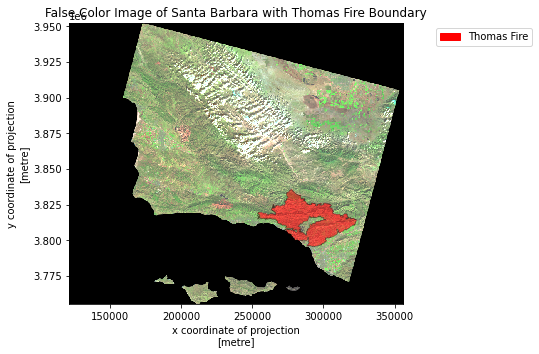
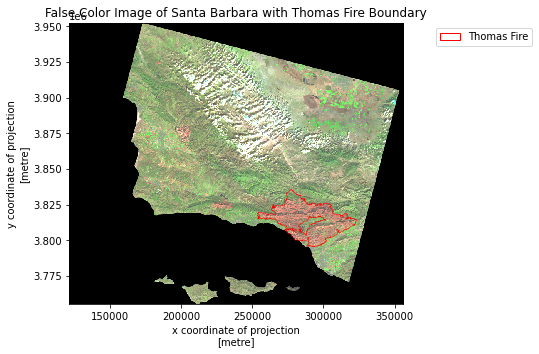
Built site for gh-pages

Changed region(s): [[0.475, 0.5282, 0.6827, 0.7147], [0.8015, 0.0932, 0.8609, 0.1243]]

diff --git a/blog/2023-12-5-envdata-proj/analysis.html b/blog/2023-12-5-envdata-proj/analysis.html
@@ -275,7 +275,7 @@ div.csl-indent {
 <section id="importing-data" class="level3">
 <h3 class="anchored" data-anchor-id="importing-data">Importing Data</h3>
 <p>This section involves importing necessary libraries like pandas and matplotlib for data manipulation and visualization. The AQI data for 2017 and 2018 is fetched from online sources, ensuring access to the most relevant and up-to-date air quality information.</p>
-<div class="cell" data-execution_count="2">
+<div class="cell" data-execution_count="19">
 <div class="sourceCode cell-code" id="cb1"><pre class="sourceCode python code-with-copy"><code class="sourceCode python"><span id="cb1-1"><a href="#cb1-1" aria-hidden="true" tabindex="-1"></a><span class="co"># Import necessary libraries for data manipulation and visualization</span></span>
 <span id="cb1-2"><a href="#cb1-2" aria-hidden="true" tabindex="-1"></a><span class="im">import</span> pandas <span class="im">as</span> pd</span>
 <span id="cb1-3"><a href="#cb1-3" aria-hidden="true" tabindex="-1"></a><span class="im">import</span> matplotlib.pyplot <span class="im">as</span> plt</span>
@@ -289,7 +289,7 @@ div.csl-indent {
 <h3 class="anchored" data-anchor-id="analysis">Analysis</h3>
 <p><strong>Data Cleaning and Preparation</strong></p>
 <p>The datasets from different years are concatenated for a comprehensive analysis. Column names are cleaned for consistency, and irrelevant columns are removed, streamlining the data for effective analysis. The conversion of the ‘date’ column to a datetime object and setting it as an index is verified to ensure proper time-series analysis.</p>
-<div class="cell" data-execution_count="3">
+<div class="cell" data-execution_count="20">
 <div class="sourceCode cell-code" id="cb2"><pre class="sourceCode python code-with-copy"><code class="sourceCode python"><span id="cb2-1"><a href="#cb2-1" aria-hidden="true" tabindex="-1"></a><span class="co"># Concatenate the two data frames for combined analysis</span></span>
 <span id="cb2-2"><a href="#cb2-2" aria-hidden="true" tabindex="-1"></a>aqi <span class="op">=</span> pd.concat([aqi_17, aqi_18])</span>
 <span id="cb2-3"><a href="#cb2-3" aria-hidden="true" tabindex="-1"></a></span>
@@ -309,7 +309,7 @@ div.csl-indent {
 </div>
 <p><strong>Time-Series Analysis</strong></p>
 <p>A 5-day rolling average for AQI is calculated and checked by displaying the first few entries. This step is critical for smoothing out daily fluctuations and observing longer-term trends in air quality.</p>
-<div class="cell" data-execution_count="4">
+<div class="cell" data-execution_count="21">
 <div class="sourceCode cell-code" id="cb3"><pre class="sourceCode python code-with-copy"><code class="sourceCode python"><span id="cb3-1"><a href="#cb3-1" aria-hidden="true" tabindex="-1"></a><span class="co"># Create a 5-day rolling average for AQI</span></span>
 <span id="cb3-2"><a href="#cb3-2" aria-hidden="true" tabindex="-1"></a>aqi_sb[<span class="st">'five_day_average'</span>] <span class="op">=</span> aqi_sb.aqi.rolling(<span class="st">'5D'</span>).mean()</span></code><button title="Copy to Clipboard" class="code-copy-button"><i class="bi"></i></button></pre></div>
 </div>
@@ -317,7 +317,7 @@ div.csl-indent {
 <section id="final-output" class="level3">
 <h3 class="anchored" data-anchor-id="final-output">Final Output</h3>
 <p>The output visualizes the Air Quality Index (AQI) in Santa Barbara County across two years: 2017 and 2018. The blue line represents the daily AQI values, showing considerable variability with several peaks indicating days of poor air quality. The orange line depicts the 5-day rolling average of AQI, which smooths out the daily fluctuations to reveal the underlying trends more clearly. Notably, there is a significant peak at the start of December 2017, marked by the dashed vertical line, which correlates to a big fire in the area. Overall, the visualization effectively communicates the temporal changes in air quality and the utility of using a rolling average to understand longer-term trends.</p>
-<div class="cell" data-execution_count="5">
+<div class="cell" data-execution_count="22">
 <div class="sourceCode cell-code" id="cb4"><pre class="sourceCode python code-with-copy"><code class="sourceCode python"><span id="cb4-1"><a href="#cb4-1" aria-hidden="true" tabindex="-1"></a><span class="co"># Plotting daily AQI and 5-day average AQI</span></span>
 <span id="cb4-2"><a href="#cb4-2" aria-hidden="true" tabindex="-1"></a>aqi_sb[<span class="st">'aqi'</span>].plot(label<span class="op">=</span><span class="st">'Daily AQI'</span>, color<span class="op">=</span><span class="st">'blue'</span>)</span>
 <span id="cb4-3"><a href="#cb4-3" aria-hidden="true" tabindex="-1"></a>aqi_sb[<span class="st">'five_day_average'</span>].plot(label<span class="op">=</span><span class="st">'5-Day Average AQI'</span>, color<span class="op">=</span><span class="st">'orange'</span>, linewidth<span class="op">=</span><span class="dv">2</span>)</span>
@@ -340,7 +340,7 @@ div.csl-indent {
 <section id="importing-data-1" class="level3">
 <h3 class="anchored" data-anchor-id="importing-data-1">Importing Data</h3>
 <p>In this initial step, libraries essential for processing geospatial data, such as NumPy, Pandas, GeoPandas, and xarray, are imported. These tools enable the handling of complex raster and vector data formats necessary for environmental and geographical analyses.</p>
-<div class="cell" data-execution_count="6">
+<div class="cell" data-execution_count="23">
 <div class="sourceCode cell-code" id="cb5"><pre class="sourceCode python code-with-copy"><code class="sourceCode python"><span id="cb5-1"><a href="#cb5-1" aria-hidden="true" tabindex="-1"></a><span class="co"># Import necessary libraries for handling geospatial and raster data</span></span>
 <span id="cb5-2"><a href="#cb5-2" aria-hidden="true" tabindex="-1"></a><span class="im">import</span> os</span>
 <span id="cb5-3"><a href="#cb5-3" aria-hidden="true" tabindex="-1"></a><span class="im">import</span> numpy <span class="im">as</span> np</span>
@@ -361,10 +361,6 @@ div.csl-indent {
 <span id="cb5-18"><a href="#cb5-18" aria-hidden="true" tabindex="-1"></a></span>
 <span id="cb5-19"><a href="#cb5-19" aria-hidden="true" tabindex="-1"></a><span class="co"># Read fire data</span></span>
 <span id="cb5-20"><a href="#cb5-20" aria-hidden="true" tabindex="-1"></a>fire <span class="op">=</span> gpd.read_file(<span class="st">"data/California_Fire_Perimeters_2017/California_Fire_Perimeters_2017.shp"</span>)</span></code><button title="Copy to Clipboard" class="code-copy-button"><i class="bi"></i></button></pre></div>
-<div class="cell-output cell-output-stderr">
-<pre><code>/Users/maxwellpatterson/opt/anaconda3/lib/python3.8/site-packages/scipy/__init__.py:138: UserWarning: A NumPy version &gt;=1.16.5 and &lt;1.23.0 is required for this version of SciPy (detected version 1.24.4)
-  warnings.warn(f"A NumPy version &gt;={np_minversion} and &lt;{np_maxversion} is required for this version of "</code></pre>
-</div>
 </div>
 </section>
 <section id="geographical-context" class="level3">
@@ -372,15 +368,15 @@ div.csl-indent {
 <p>The geographical context is established by loading Landsat 8 satellite imagery for the Santa Barbara region and fire perimeter data from 2017. This step situates the analysis within the specific area affected by the Thomas Fire, setting the stage for a targeted examination of the landscape.</p>
 <p><strong>Data Preparation and Alignment</strong></p>
 <p>This section involves transforming the CRS of the fire perimeter data to match the Landsat data. The successful alignment of these datasets is confirmed, which is imperative for precise spatial overlay in the analysis.</p>
-<div class="cell" data-execution_count="7">
-<div class="sourceCode cell-code" id="cb7"><pre class="sourceCode python code-with-copy"><code class="sourceCode python"><span id="cb7-1"><a href="#cb7-1" aria-hidden="true" tabindex="-1"></a><span class="co"># Reduce dimensions</span></span>
-<span id="cb7-2"><a href="#cb7-2" aria-hidden="true" tabindex="-1"></a>landsat_new <span class="op">=</span> landsat.squeeze([<span class="st">'band'</span>])</span>
-<span id="cb7-3"><a href="#cb7-3" aria-hidden="true" tabindex="-1"></a></span>
-<span id="cb7-4"><a href="#cb7-4" aria-hidden="true" tabindex="-1"></a>landsat_new <span class="op">=</span> landsat_new.drop([<span class="st">'band'</span>])</span>
-<span id="cb7-5"><a href="#cb7-5" aria-hidden="true" tabindex="-1"></a></span>
-<span id="cb7-6"><a href="#cb7-6" aria-hidden="true" tabindex="-1"></a><span class="co"># Display updated landsat</span></span>
-<span id="cb7-7"><a href="#cb7-7" aria-hidden="true" tabindex="-1"></a>landsat_new.values</span></code><button title="Copy to Clipboard" class="code-copy-button"><i class="bi"></i></button></pre></div>
-<div class="cell-output cell-output-display" data-execution_count="7">
+<div class="cell" data-execution_count="24">
+<div class="sourceCode cell-code" id="cb6"><pre class="sourceCode python code-with-copy"><code class="sourceCode python"><span id="cb6-1"><a href="#cb6-1" aria-hidden="true" tabindex="-1"></a><span class="co"># Reduce dimensions</span></span>
+<span id="cb6-2"><a href="#cb6-2" aria-hidden="true" tabindex="-1"></a>landsat_new <span class="op">=</span> landsat.squeeze([<span class="st">'band'</span>])</span>
+<span id="cb6-3"><a href="#cb6-3" aria-hidden="true" tabindex="-1"></a></span>
+<span id="cb6-4"><a href="#cb6-4" aria-hidden="true" tabindex="-1"></a>landsat_new <span class="op">=</span> landsat_new.drop([<span class="st">'band'</span>])</span>
+<span id="cb6-5"><a href="#cb6-5" aria-hidden="true" tabindex="-1"></a></span>
+<span id="cb6-6"><a href="#cb6-6" aria-hidden="true" tabindex="-1"></a><span class="co"># Display updated landsat</span></span>
+<span id="cb6-7"><a href="#cb6-7" aria-hidden="true" tabindex="-1"></a>landsat_new.values</span></code><button title="Copy to Clipboard" class="code-copy-button"><i class="bi"></i></button></pre></div>
+<div class="cell-output cell-output-display" data-execution_count="24">
 <pre><code>&lt;bound method Mapping.values of &lt;xarray.Dataset&gt;
 Dimensions:      (x: 870, y: 731)
 Coordinates:
@@ -401,31 +397,31 @@ Data variables:
 <p><strong>Creating True and False Color Images</strong></p>
 <p>The creation of true and false color images utilizes specific bands from the Landsat data. These images are normalized to enhance visual contrast, aiding in the identification of different land features. Checks confirm the normalization process has occurred correctly.</p>
 <p><strong>True Color Image</strong></p>
-<div class="cell" data-execution_count="8">
-<div class="sourceCode cell-code" id="cb9"><pre class="sourceCode python code-with-copy"><code class="sourceCode python"><span id="cb9-1"><a href="#cb9-1" aria-hidden="true" tabindex="-1"></a><span class="co"># Select R, G, B bands</span></span>
-<span id="cb9-2"><a href="#cb9-2" aria-hidden="true" tabindex="-1"></a>red_band <span class="op">=</span> landsat_new[<span class="st">'red'</span>]</span>
-<span id="cb9-3"><a href="#cb9-3" aria-hidden="true" tabindex="-1"></a>green_band <span class="op">=</span> landsat_new[<span class="st">'green'</span>]</span>
-<span id="cb9-4"><a href="#cb9-4" aria-hidden="true" tabindex="-1"></a>blue_band <span class="op">=</span> landsat_new[<span class="st">'blue'</span>]</span>
-<span id="cb9-5"><a href="#cb9-5" aria-hidden="true" tabindex="-1"></a></span>
-<span id="cb9-6"><a href="#cb9-6" aria-hidden="true" tabindex="-1"></a><span class="co"># Stack the bands along the 'color' dimension</span></span>
-<span id="cb9-7"><a href="#cb9-7" aria-hidden="true" tabindex="-1"></a>rgb_image <span class="op">=</span> xr.concat([red_band, green_band, blue_band], dim<span class="op">=</span><span class="st">'color'</span>)</span>
-<span id="cb9-8"><a href="#cb9-8" aria-hidden="true" tabindex="-1"></a>rgb_image <span class="op">=</span> (rgb_image <span class="op">-</span> rgb_image.<span class="bu">min</span>()) <span class="op">/</span> (rgb_image.<span class="bu">max</span>() <span class="op">-</span> rgb_image.<span class="bu">min</span>())</span>
-<span id="cb9-9"><a href="#cb9-9" aria-hidden="true" tabindex="-1"></a></span>
-<span id="cb9-10"><a href="#cb9-10" aria-hidden="true" tabindex="-1"></a><span class="co"># Plot the RGB image </span></span>
-<span id="cb9-11"><a href="#cb9-11" aria-hidden="true" tabindex="-1"></a>plt.imshow(rgb_image.transpose(<span class="st">'y'</span>, <span class="st">'x'</span>, <span class="st">'color'</span>)) </span>
-<span id="cb9-12"><a href="#cb9-12" aria-hidden="true" tabindex="-1"></a></span>
-<span id="cb9-13"><a href="#cb9-13" aria-hidden="true" tabindex="-1"></a><span class="co"># Visualize map</span></span>
-<span id="cb9-14"><a href="#cb9-14" aria-hidden="true" tabindex="-1"></a>plt.show()</span></code><button title="Copy to Clipboard" class="code-copy-button"><i class="bi"></i></button></pre></div>
+<div class="cell" data-execution_count="25">
+<div class="sourceCode cell-code" id="cb8"><pre class="sourceCode python code-with-copy"><code class="sourceCode python"><span id="cb8-1"><a href="#cb8-1" aria-hidden="true" tabindex="-1"></a><span class="co"># Select R, G, B bands</span></span>
+<span id="cb8-2"><a href="#cb8-2" aria-hidden="true" tabindex="-1"></a>red_band <span class="op">=</span> landsat_new[<span class="st">'red'</span>]</span>
+<span id="cb8-3"><a href="#cb8-3" aria-hidden="true" tabindex="-1"></a>green_band <span class="op">=</span> landsat_new[<span class="st">'green'</span>]</span>
+<span id="cb8-4"><a href="#cb8-4" aria-hidden="true" tabindex="-1"></a>blue_band <span class="op">=</span> landsat_new[<span class="st">'blue'</span>]</span>
+<span id="cb8-5"><a href="#cb8-5" aria-hidden="true" tabindex="-1"></a></span>
+<span id="cb8-6"><a href="#cb8-6" aria-hidden="true" tabindex="-1"></a><span class="co"># Stack the bands along the 'color' dimension</span></span>
+<span id="cb8-7"><a href="#cb8-7" aria-hidden="true" tabindex="-1"></a>rgb_image <span class="op">=</span> xr.concat([red_band, green_band, blue_band], dim<span class="op">=</span><span class="st">'color'</span>)</span>
+<span id="cb8-8"><a href="#cb8-8" aria-hidden="true" tabindex="-1"></a>rgb_image <span class="op">=</span> (rgb_image <span class="op">-</span> rgb_image.<span class="bu">min</span>()) <span class="op">/</span> (rgb_image.<span class="bu">max</span>() <span class="op">-</span> rgb_image.<span class="bu">min</span>())</span>
+<span id="cb8-9"><a href="#cb8-9" aria-hidden="true" tabindex="-1"></a></span>
+<span id="cb8-10"><a href="#cb8-10" aria-hidden="true" tabindex="-1"></a><span class="co"># Plot the RGB image </span></span>
+<span id="cb8-11"><a href="#cb8-11" aria-hidden="true" tabindex="-1"></a>plt.imshow(rgb_image.transpose(<span class="st">'y'</span>, <span class="st">'x'</span>, <span class="st">'color'</span>)) </span>
+<span id="cb8-12"><a href="#cb8-12" aria-hidden="true" tabindex="-1"></a></span>
+<span id="cb8-13"><a href="#cb8-13" aria-hidden="true" tabindex="-1"></a><span class="co"># Visualize map</span></span>
+<span id="cb8-14"><a href="#cb8-14" aria-hidden="true" tabindex="-1"></a>plt.show()</span></code><button title="Copy to Clipboard" class="code-copy-button"><i class="bi"></i></button></pre></div>
 <div class="cell-output cell-output-display">
 <p><img src="analysis_files/figure-html/cell-8-output-1.png" class="img-fluid"></p>
 </div>
 </div>
 <p><strong>False Color Image</strong></p>
-<div class="cell" data-execution_count="15">
-<div class="sourceCode cell-code" id="cb10"><pre class="sourceCode python code-with-copy"><code class="sourceCode python"><span id="cb10-1"><a href="#cb10-1" aria-hidden="true" tabindex="-1"></a><span class="co"># Plot the RGB image using imshow</span></span>
-<span id="cb10-2"><a href="#cb10-2" aria-hidden="true" tabindex="-1"></a>landsat_new[[<span class="st">'swir22'</span>, <span class="st">'nir08'</span>, <span class="st">'red'</span>]].to_array().plot.imshow(robust<span class="op">=</span> <span class="va">True</span>)</span></code><button title="Copy to Clipboard" class="code-copy-button"><i class="bi"></i></button></pre></div>
-<div class="cell-output cell-output-display" data-execution_count="15">
-<pre><code>&lt;matplotlib.image.AxesImage at 0x7fdcf0fff1f0&gt;</code></pre>
+<div class="cell" data-execution_count="26">
+<div class="sourceCode cell-code" id="cb9"><pre class="sourceCode python code-with-copy"><code class="sourceCode python"><span id="cb9-1"><a href="#cb9-1" aria-hidden="true" tabindex="-1"></a><span class="co"># Plot the RGB image using imshow</span></span>
+<span id="cb9-2"><a href="#cb9-2" aria-hidden="true" tabindex="-1"></a>landsat_new[[<span class="st">'swir22'</span>, <span class="st">'nir08'</span>, <span class="st">'red'</span>]].to_array().plot.imshow(robust<span class="op">=</span> <span class="va">True</span>)</span></code><button title="Copy to Clipboard" class="code-copy-button"><i class="bi"></i></button></pre></div>
+<div class="cell-output cell-output-display" data-execution_count="26">
+<pre><code>&lt;matplotlib.image.AxesImage at 0x7fdcf0ff78b0&gt;</code></pre>
 </div>
 <div class="cell-output cell-output-display">
 <p><img src="analysis_files/figure-html/cell-9-output-2.png" class="img-fluid"></p>
@@ -435,55 +431,36 @@ Data variables:
 <section id="final-output-1" class="level3">
 <h3 class="anchored" data-anchor-id="final-output-1">Final Output</h3>
 <p>The final output is a composite image that illustrates the affected area during the Thomas Fire. This output serves as a potent visual tool for understanding the spatial extent of wildfires and highlights the value of remote sensing in environmental monitoring and disaster assessment.</p>
-<div class="cell" data-execution_count="16">
-<div class="sourceCode cell-code" id="cb12"><pre class="sourceCode python code-with-copy"><code class="sourceCode python"><span id="cb12-1"><a href="#cb12-1" aria-hidden="true" tabindex="-1"></a><span class="co"># Filter for Thomas fire</span></span>
-<span id="cb12-2"><a href="#cb12-2" aria-hidden="true" tabindex="-1"></a>thomas_fire <span class="op">=</span> fire[fire[<span class="st">'FIRE_NAME'</span>]<span class="op">==</span><span class="st">"THOMAS"</span>]</span>
-<span id="cb12-3"><a href="#cb12-3" aria-hidden="true" tabindex="-1"></a></span>
-<span id="cb12-4"><a href="#cb12-4" aria-hidden="true" tabindex="-1"></a><span class="co"># Convert thomas_fire to GeoDataFrame to same crs as landsat</span></span>
-<span id="cb12-5"><a href="#cb12-5" aria-hidden="true" tabindex="-1"></a>thomas_fire <span class="op">=</span> thomas_fire.to_crs(landsat_new.rio.crs)</span>
-<span id="cb12-6"><a href="#cb12-6" aria-hidden="true" tabindex="-1"></a></span>
-<span id="cb12-7"><a href="#cb12-7" aria-hidden="true" tabindex="-1"></a><span class="co"># Store false color map</span></span>
-<span id="cb12-8"><a href="#cb12-8" aria-hidden="true" tabindex="-1"></a>false_color <span class="op">=</span> landsat_new[[<span class="st">'swir22'</span>, <span class="st">'nir08'</span>, <span class="st">'red'</span>]].to_array()</span></code><button title="Copy to Clipboard" class="code-copy-button"><i class="bi"></i></button></pre></div>
+<div class="cell" data-execution_count="27">
+<div class="sourceCode cell-code" id="cb11"><pre class="sourceCode python code-with-copy"><code class="sourceCode python"><span id="cb11-1"><a href="#cb11-1" aria-hidden="true" tabindex="-1"></a><span class="co"># Filter for Thomas fire</span></span>
+<span id="cb11-2"><a href="#cb11-2" aria-hidden="true" tabindex="-1"></a>thomas_fire <span class="op">=</span> fire[fire[<span class="st">'FIRE_NAME'</span>]<span class="op">==</span><span class="st">"THOMAS"</span>]</span>
+<span id="cb11-3"><a href="#cb11-3" aria-hidden="true" tabindex="-1"></a></span>
+<span id="cb11-4"><a href="#cb11-4" aria-hidden="true" tabindex="-1"></a><span class="co"># Convert thomas_fire to GeoDataFrame to same crs as landsat</span></span>
+<span id="cb11-5"><a href="#cb11-5" aria-hidden="true" tabindex="-1"></a>thomas_fire <span class="op">=</span> thomas_fire.to_crs(landsat_new.rio.crs)</span>
+<span id="cb11-6"><a href="#cb11-6" aria-hidden="true" tabindex="-1"></a></span>
+<span id="cb11-7"><a href="#cb11-7" aria-hidden="true" tabindex="-1"></a><span class="co"># Store false color map</span></span>
+<span id="cb11-8"><a href="#cb11-8" aria-hidden="true" tabindex="-1"></a>false_color <span class="op">=</span> landsat_new[[<span class="st">'swir22'</span>, <span class="st">'nir08'</span>, <span class="st">'red'</span>]].to_array()</span></code><button title="Copy to Clipboard" class="code-copy-button"><i class="bi"></i></button></pre></div>
 </div>
-<div class="cell" data-execution_count="17">
-<div class="sourceCode cell-code" id="cb13"><pre class="sourceCode python code-with-copy"><code class="sourceCode python"><span id="cb13-1"><a href="#cb13-1" aria-hidden="true" tabindex="-1"></a><span class="co"># Initiate figure</span></span>
-<span id="cb13-2"><a href="#cb13-2" aria-hidden="true" tabindex="-1"></a>fig, ax <span class="op">=</span> plt.subplots(figsize<span class="op">=</span>(<span class="dv">6</span>,<span class="dv">6</span>))</span>
-<span id="cb13-3"><a href="#cb13-3" aria-hidden="true" tabindex="-1"></a></span>
-<span id="cb13-4"><a href="#cb13-4" aria-hidden="true" tabindex="-1"></a><span class="co"># Plot outline of california and create key for legend</span></span>
-<span id="cb13-5"><a href="#cb13-5" aria-hidden="true" tabindex="-1"></a>false_color.plot.imshow(ax<span class="op">=</span>ax, robust<span class="op">=</span><span class="va">True</span>)</span>
-<span id="cb13-6"><a href="#cb13-6" aria-hidden="true" tabindex="-1"></a></span>
-<span id="cb13-7"><a href="#cb13-7" aria-hidden="true" tabindex="-1"></a><span class="co"># Plot lulc bounding box and create key for legend</span></span>
-<span id="cb13-8"><a href="#cb13-8" aria-hidden="true" tabindex="-1"></a>thomas_fire.plot(ax<span class="op">=</span>ax, color<span class="op">=</span><span class="st">'red'</span>, alpha<span class="op">=</span><span class="fl">0.5</span>, edgecolor<span class="op">=</span><span class="st">'black'</span>, linewidth<span class="op">=</span><span class="fl">0.5</span>)</span>
-<span id="cb13-9"><a href="#cb13-9" aria-hidden="true" tabindex="-1"></a>thomas_patch <span class="op">=</span> mpatches.Patch(color<span class="op">=</span><span class="st">'red'</span>, label<span class="op">=</span><span class="st">'Thomas Fire'</span>)</span>
-<span id="cb13-10"><a href="#cb13-10" aria-hidden="true" tabindex="-1"></a></span>
-<span id="cb13-11"><a href="#cb13-11" aria-hidden="true" tabindex="-1"></a><span class="co"># Create legend</span></span>
-<span id="cb13-12"><a href="#cb13-12" aria-hidden="true" tabindex="-1"></a>ax.legend(handles<span class="op">=</span>[thomas_patch], frameon<span class="op">=</span><span class="va">True</span>, loc<span class="op">=</span><span class="st">'upper right'</span>, bbox_to_anchor<span class="op">=</span>(<span class="fl">1.4</span>, <span class="dv">1</span>))</span>
-<span id="cb13-13"><a href="#cb13-13" aria-hidden="true" tabindex="-1"></a>ax.set_title(<span class="st">'False Color Image of Santa Barbara with Thomas Fire Boundary'</span>)</span>
-<span id="cb13-14"><a href="#cb13-14" aria-hidden="true" tabindex="-1"></a>plt.savefig(<span class="st">'images/thomas_fire_boundary.png'</span>)</span></code><button title="Copy to Clipboard" class="code-copy-button"><i class="bi"></i></button></pre></div>
+<div class="cell" data-execution_count="28">
+<div class="sourceCode cell-code" id="cb12"><pre class="sourceCode python code-with-copy"><code class="sourceCode python"><span id="cb12-1"><a href="#cb12-1" aria-hidden="true" tabindex="-1"></a><span class="co"># Initiate figure</span></span>
+<span id="cb12-2"><a href="#cb12-2" aria-hidden="true" tabindex="-1"></a>fig, ax <span class="op">=</span> plt.subplots(figsize<span class="op">=</span>(<span class="dv">6</span>,<span class="dv">6</span>))</span>
+<span id="cb12-3"><a href="#cb12-3" aria-hidden="true" tabindex="-1"></a></span>
+<span id="cb12-4"><a href="#cb12-4" aria-hidden="true" tabindex="-1"></a><span class="co"># Plot outline of California and create key for legend</span></span>
+<span id="cb12-5"><a href="#cb12-5" aria-hidden="true" tabindex="-1"></a>false_color.plot.imshow(ax<span class="op">=</span>ax, robust<span class="op">=</span><span class="va">True</span>)</span>
+<span id="cb12-6"><a href="#cb12-6" aria-hidden="true" tabindex="-1"></a></span>
+<span id="cb12-7"><a href="#cb12-7" aria-hidden="true" tabindex="-1"></a><span class="co"># Plot the outline of the Thomas Fire bounding box and create key for legend</span></span>
+<span id="cb12-8"><a href="#cb12-8" aria-hidden="true" tabindex="-1"></a><span class="co"># Set facecolor to 'none' to only show the border</span></span>
+<span id="cb12-9"><a href="#cb12-9" aria-hidden="true" tabindex="-1"></a>thomas_fire.plot(ax<span class="op">=</span>ax, facecolor<span class="op">=</span><span class="st">'none'</span>, edgecolor<span class="op">=</span><span class="st">'red'</span>, linewidth<span class="op">=</span><span class="fl">0.5</span>)</span>
+<span id="cb12-10"><a href="#cb12-10" aria-hidden="true" tabindex="-1"></a>thomas_patch <span class="op">=</span> mpatches.Patch(edgecolor<span class="op">=</span><span class="st">'red'</span>, facecolor<span class="op">=</span><span class="st">'none'</span>, label<span class="op">=</span><span class="st">'Thomas Fire'</span>)</span>
+<span id="cb12-11"><a href="#cb12-11" aria-hidden="true" tabindex="-1"></a></span>
+<span id="cb12-12"><a href="#cb12-12" aria-hidden="true" tabindex="-1"></a><span class="co"># Create legend</span></span>
+<span id="cb12-13"><a href="#cb12-13" aria-hidden="true" tabindex="-1"></a>ax.legend(handles<span class="op">=</span>[thomas_patch], frameon<span class="op">=</span><span class="va">True</span>, loc<span class="op">=</span><span class="st">'upper right'</span>, bbox_to_anchor<span class="op">=</span>(<span class="fl">1.4</span>, <span class="dv">1</span>))</span>
+<span id="cb12-14"><a href="#cb12-14" aria-hidden="true" tabindex="-1"></a>ax.set_title(<span class="st">'False Color Image of Santa Barbara with Thomas Fire Boundary'</span>)</span>
+<span id="cb12-15"><a href="#cb12-15" aria-hidden="true" tabindex="-1"></a></span>
+<span id="cb12-16"><a href="#cb12-16" aria-hidden="true" tabindex="-1"></a><span class="co"># Save the figure</span></span>
+<span id="cb12-17"><a href="#cb12-17" aria-hidden="true" tabindex="-1"></a>plt.savefig(<span class="st">'images/thomas_fire_boundary.png'</span>)</span></code><button title="Copy to Clipboard" class="code-copy-button"><i class="bi"></i></button></pre></div>
 <div class="cell-output cell-output-display">
 <p><img src="analysis_files/figure-html/cell-11-output-1.png" class="img-fluid"></p>
-</div>
-</div>
-<div class="cell" data-execution_count="18">
-<div class="sourceCode cell-code" id="cb14"><pre class="sourceCode python code-with-copy"><code class="sourceCode python"><span id="cb14-1"><a href="#cb14-1" aria-hidden="true" tabindex="-1"></a><span class="co"># Initiate figure</span></span>
-<span id="cb14-2"><a href="#cb14-2" aria-hidden="true" tabindex="-1"></a>fig, ax <span class="op">=</span> plt.subplots(figsize<span class="op">=</span>(<span class="dv">6</span>,<span class="dv">6</span>))</span>
-<span id="cb14-3"><a href="#cb14-3" aria-hidden="true" tabindex="-1"></a></span>
-<span id="cb14-4"><a href="#cb14-4" aria-hidden="true" tabindex="-1"></a><span class="co"># Plot outline of California and create key for legend</span></span>
-<span id="cb14-5"><a href="#cb14-5" aria-hidden="true" tabindex="-1"></a>false_color.plot.imshow(ax<span class="op">=</span>ax, robust<span class="op">=</span><span class="va">True</span>)</span>
-<span id="cb14-6"><a href="#cb14-6" aria-hidden="true" tabindex="-1"></a></span>
-<span id="cb14-7"><a href="#cb14-7" aria-hidden="true" tabindex="-1"></a><span class="co"># Plot the outline of the Thomas Fire bounding box and create key for legend</span></span>
-<span id="cb14-8"><a href="#cb14-8" aria-hidden="true" tabindex="-1"></a><span class="co"># Set facecolor to 'none' to only show the border</span></span>
-<span id="cb14-9"><a href="#cb14-9" aria-hidden="true" tabindex="-1"></a>thomas_fire.plot(ax<span class="op">=</span>ax, facecolor<span class="op">=</span><span class="st">'none'</span>, edgecolor<span class="op">=</span><span class="st">'red'</span>, linewidth<span class="op">=</span><span class="fl">0.5</span>)</span>
-<span id="cb14-10"><a href="#cb14-10" aria-hidden="true" tabindex="-1"></a>thomas_patch <span class="op">=</span> mpatches.Patch(edgecolor<span class="op">=</span><span class="st">'red'</span>, facecolor<span class="op">=</span><span class="st">'none'</span>, label<span class="op">=</span><span class="st">'Thomas Fire'</span>)</span>
-<span id="cb14-11"><a href="#cb14-11" aria-hidden="true" tabindex="-1"></a></span>
-<span id="cb14-12"><a href="#cb14-12" aria-hidden="true" tabindex="-1"></a><span class="co"># Create legend</span></span>
-<span id="cb14-13"><a href="#cb14-13" aria-hidden="true" tabindex="-1"></a>ax.legend(handles<span class="op">=</span>[thomas_patch], frameon<span class="op">=</span><span class="va">True</span>, loc<span class="op">=</span><span class="st">'upper right'</span>, bbox_to_anchor<span class="op">=</span>(<span class="fl">1.4</span>, <span class="dv">1</span>))</span>
-<span id="cb14-14"><a href="#cb14-14" aria-hidden="true" tabindex="-1"></a>ax.set_title(<span class="st">'False Color Image of Santa Barbara with Thomas Fire Boundary'</span>)</span>
-<span id="cb14-15"><a href="#cb14-15" aria-hidden="true" tabindex="-1"></a></span>
-<span id="cb14-16"><a href="#cb14-16" aria-hidden="true" tabindex="-1"></a><span class="co"># Save the figure</span></span>
-<span id="cb14-17"><a href="#cb14-17" aria-hidden="true" tabindex="-1"></a>plt.savefig(<span class="st">'images/thomas_fire_boundary.png'</span>)</span></code><button title="Copy to Clipboard" class="code-copy-button"><i class="bi"></i></button></pre></div>
-<div class="cell-output cell-output-display">
-<p><img src="analysis_files/figure-html/cell-12-output-1.png" class="img-fluid"></p>
 </div>
 </div>
 <p>This visual provides context on the area that was impacted by the Thomas Fire. Paired with the air quality index temporal data, these visual outputs give us a better understanding of the scope of this catastrophic event in Santa Barbara.</p>

diff --git a/blog.html b/blog.html
@@ -281,7 +281,7 @@ Maxwell Patterson
 </a>
 </div>
 </div>
-<div class="quarto-post image-right" data-index="4" data-categories="R,Quarto,Datasets" data-listing-date-sort="1702454400000" data-listing-file-modified-sort="1702433204238" data-listing-date-modified-sort="NaN" data-listing-reading-time-sort="5">
+<div class="quarto-post image-right" data-index="4" data-categories="R,Quarto,Datasets" data-listing-date-sort="1702454400000" data-listing-file-modified-sort="1702433592086" data-listing-date-modified-sort="NaN" data-listing-reading-time-sort="5">
 <div class="thumbnail">
 <p><a href="./blog/2023-12-5-envdata-proj/analysis.html"> <p class="card-img-top"><img src="blog/2023-12-5-envdata-proj/images/thomas-fire.jpg" alt="Thomas Fire"  class="thumbnail-image card-img"/></p> </a></p>
 </div>
